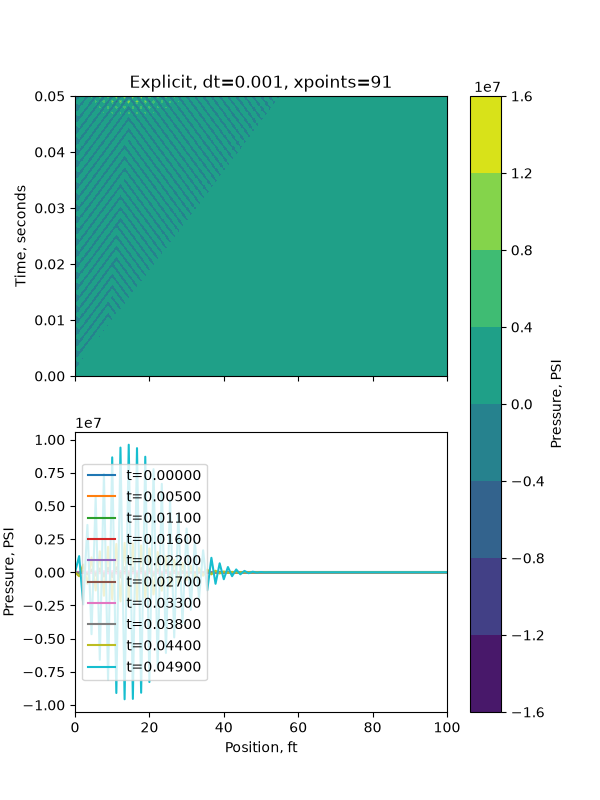
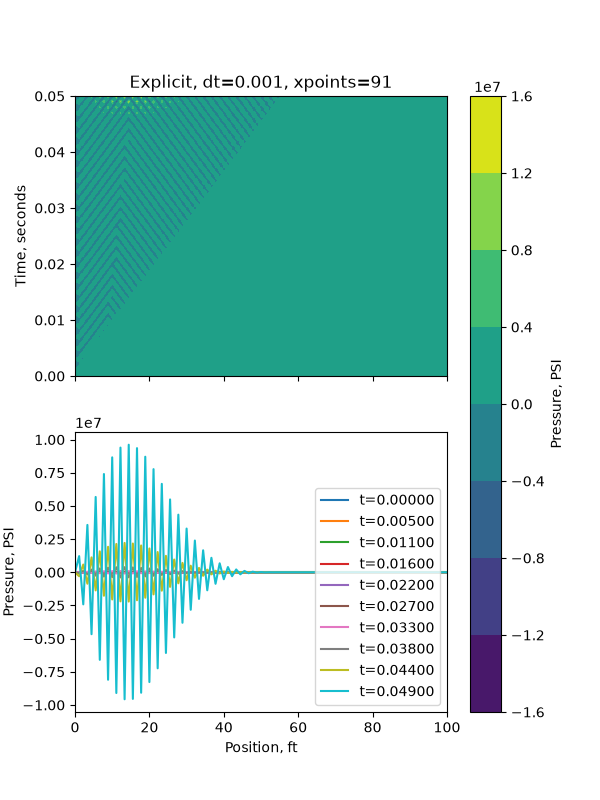
done with hmw2 whoops

diff --git a/hmw1.py b/hmw1.py
@@ -283,7 +283,7 @@ def makeplot(fullsim, xpos, tpos, tstep, L_points, imporexp, plot_density=None, 
     for index in np.linspace(0, len(tpos)-1-1e-6, 10):
         ax[1].plot(xpos[int(np.floor(index))]/0.3048, fullsim[int(np.floor(index))]/6894.757, label=f"t={tpos[int(np.floor(index)), 0]:.5f}")
         # pass
-    ax[1].legend()
+    ax[1].legend(loc="lower right")
     ax[0].set_title(f"{imporexp}, dt={tstep}, xpoints={L_points}")
     ax[0].set_ylabel("Time, seconds")
     ax[1].set_ylabel("Pressure, PSI")
